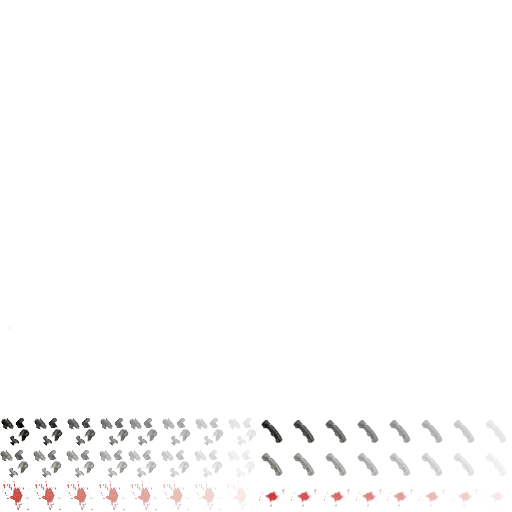
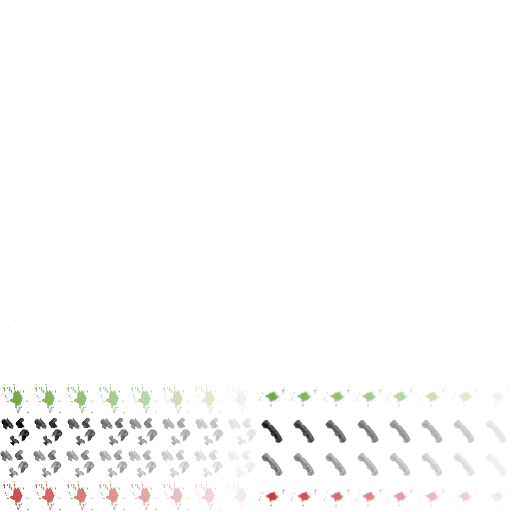
dev

Changed region(s): [[0.0, 0.75, 0.4375, 0.8125], [0.5, 0.75, 0.875, 0.7812], [0.9062, 0.75, 0.9375, 0.7812]]

diff --git a/src/babylon/monsters/codebook/monsterCodebook.ts b/src/babylon/monsters/codebook/monsterCodebook.ts
@@ -19,6 +19,11 @@ export const MonsterCodebook = {
             MonsterBonesAnims.initSkeleton(model)
         }
 
+        // TemplateId 3 is a zombie type
+        if (model.type.templateId === 3) {
+            MonsterBonesAnims.initZombie(model)
+        }
+
         // TemplateId 4 is a cat type
         if (model.type.templateId === 4) {
             MonsterBonesAnims.initCat(model)
@@ -58,12 +63,11 @@ export class MonsterType {
     bodySoundType: string
     parrySoundType: string | null
     monsterSoundType: string = ''
-    splatType: SplatType
 
     aaType: string = MonsterAATypes.MELEE
 
     constructor(id: number, group: MonsterGroup, templateId: number, name: string, boxSize: number, boxHeight: number, walkAnimSpeed: number, weapon: MonsterEquipData | null, helmet: MonsterEquipData | null, armor: MonsterEquipData | null,
-                weaponSoundType: string, bodySoundType: string, parrySoundType: string | null, monsterSoundType: string, splatType: SplatType, aaType: string | null) {
+                weaponSoundType: string, bodySoundType: string, parrySoundType: string | null, monsterSoundType: string, aaType: string | null) {
         this.id = id
         this.group = group
         this.templateId = templateId
@@ -78,7 +82,6 @@ export class MonsterType {
         this.bodySoundType = bodySoundType || BodySoundTypes.HARD
         this.parrySoundType = parrySoundType
         this.monsterSoundType = monsterSoundType
-        this.splatType = splatType
         if (aaType) {
             this.aaType = aaType
         }
@@ -131,6 +134,7 @@ export const MonsterGroups = {
     SKELETON_RANGED: new MonsterGroup(2, 'Skeleton_Ranged'),
     WITHER_MELEE: new MonsterGroup(20, 'Wither_Melee'),
     WITHER_RANGED: new MonsterGroup(21, 'Wither_Ranged'),
+    ZOMBIE: new MonsterGroup(30, 'Zombie'),
     CAT: new MonsterGroup(1000, 'Cat'),
 
     getAsArray(): MonsterGroup[] {
@@ -161,49 +165,49 @@ export const MonsterAATypes = {
 export const MonsterTypes = {
 
     // SKELETON MELEE
-
     SKELETON: new MonsterType( 1, MonsterGroups.SKELETON_MELEE, 1,'Skeleton', 0.6, 1.8, 3.2,null,null,  null,
-        WeaponSoundTypes.BONE, BodySoundTypes.HARD, null, MonsterSoundTypes.SKELETON, FightSplatTypes.BONE, null),
+        WeaponSoundTypes.BONE, BodySoundTypes.HARD, null, MonsterSoundTypes.SKELETON,null),
 
     SKELETON_FIGHTER: new MonsterType( 2, MonsterGroups.SKELETON_MELEE, 1, 'Skeleton Fighter', 0.6, 1.8,  3.2,
         new MonsterEquipData([EquipSlotModelsCb.LONGSWORD.modelId], 0.8, null, null,0),null, null,
-        WeaponSoundTypes.SWORD, BodySoundTypes.HARD, WeaponSoundTypes.SWORD, MonsterSoundTypes.SKELETON, FightSplatTypes.BONE, null),
+        WeaponSoundTypes.SWORD, BodySoundTypes.HARD, WeaponSoundTypes.SWORD, MonsterSoundTypes.SKELETON, null),
 
     SKELETON_WARRIOR: new MonsterType( 3, MonsterGroups.SKELETON_MELEE, 1, 'Skeleton Warrior', 0.6, 1.8,  3.2,
         new MonsterEquipData([EquipSlotModelsCb.LONGSWORD.modelId], 0.8, null, null, 0),
         new MonsterEquipData([EquipSlotModelsCb.HELM.modelId], 1.07 , VectorY90, null, 8),
         new MonsterEquipData([EquipSlotModelsCb.ARMOR_PLATE.modelId], new Vector3(0.82, 0.7, 0.78),  VectorY90, null, 8),
-        WeaponSoundTypes.SWORD, BodySoundTypes.HARD, WeaponSoundTypes.SWORD, MonsterSoundTypes.SKELETON, FightSplatTypes.BONE, null),
+        WeaponSoundTypes.SWORD, BodySoundTypes.HARD, WeaponSoundTypes.SWORD, MonsterSoundTypes.SKELETON, null),
 
     // SKELETON RANGED
-
     SKELETON_ARCHER: new MonsterType( 20, MonsterGroups.SKELETON_RANGED, 1, 'Skeleton Archer', 0.6, 1.8,  3.2,
         new MonsterEquipData([EquipSlotModelsCb.HUNTERBOW.modelId], 0.8, new Vector3(Math.PI, 0, Math.PI), null, 0), null, null,
-        WeaponSoundTypes.SWORD, BodySoundTypes.HARD, WeaponSoundTypes.SWORD, MonsterSoundTypes.SKELETON, FightSplatTypes.BONE, MonsterAATypes.RANGED_ARROW),
+        WeaponSoundTypes.SWORD, BodySoundTypes.HARD, WeaponSoundTypes.SWORD, MonsterSoundTypes.SKELETON, MonsterAATypes.RANGED_ARROW),
+
+    // ZOMBIE
+    ZOMBIE : new MonsterType( 50, MonsterGroups.ZOMBIE, 3,'Rotten Zombie', 0.6, 1, 3, null,null,  null,
+        WeaponSoundTypes.BONE, BodySoundTypes.HARD, null, MonsterSoundTypes.SKELETON, null),
 
     // WITHER MELEE
-
     WITHER: new MonsterType( 200, MonsterGroups.WITHER_MELEE, 2,'Wither', 0.6, 1.8, 3.2, null,null,  null,
-        WeaponSoundTypes.BONE, BodySoundTypes.HARD, null, MonsterSoundTypes.SKELETON, FightSplatTypes.DARK_BONE, null),
+        WeaponSoundTypes.BONE, BodySoundTypes.HARD, null, MonsterSoundTypes.SKELETON, null),
 
     WITHER_CHAMPION: new MonsterType( 201, MonsterGroups.WITHER_MELEE, 2, 'Wither Champion', 0.6, 1.8,3.2,
         new MonsterEquipData([EquipSlotModelsCb.LONGSWORD.modelId], 0.8, null, null, 0),null, null,
-        WeaponSoundTypes.SWORD, BodySoundTypes.HARD, WeaponSoundTypes.SWORD, MonsterSoundTypes.SKELETON, FightSplatTypes.DARK_BONE, null),
+        WeaponSoundTypes.SWORD, BodySoundTypes.HARD, WeaponSoundTypes.SWORD, MonsterSoundTypes.SKELETON, null),
 
     WITHER_KNIGHT: new MonsterType( 202, MonsterGroups.WITHER_MELEE, 2, 'Wither Knight', 0.6, 1.8,  3.2,
         new MonsterEquipData([EquipSlotModelsCb.LONGSWORD.modelId], 0.9, null, null, 2),
         new MonsterEquipData([EquipSlotModelsCb.HELM.modelId], 1.07, VectorY90, null,6),
         new MonsterEquipData([EquipSlotModelsCb.ARMOR_PLATE.modelId], new Vector3(0.82, 0.7, 0.78), VectorY90, null, 6),
-        WeaponSoundTypes.SWORD, BodySoundTypes.HARD, WeaponSoundTypes.SWORD, MonsterSoundTypes.SKELETON, FightSplatTypes.DARK_BONE, null),
+        WeaponSoundTypes.SWORD, BodySoundTypes.HARD, WeaponSoundTypes.SWORD, MonsterSoundTypes.SKELETON, null),
 
     // WITHER RANGED
 
 
     // CAT TYPES
-
     HOUSE_CAT : new MonsterType( 1001, MonsterGroups.CAT,  4,'House Cat', 0.6, 1, 6, null,null,  null,
-        WeaponSoundTypes.BONE, BodySoundTypes.SOFT, null, MonsterSoundTypes.CAT, FightSplatTypes.BLOOD, null),
+        WeaponSoundTypes.BONE, BodySoundTypes.SOFT, null, MonsterSoundTypes.CAT, null),
 
     WILD_CAT : new MonsterType( 1002, MonsterGroups.CAT, 4,'Wild Cat', 0.6, 1, 6, null,null,  null,
-        WeaponSoundTypes.BONE, BodySoundTypes.SOFT, null, MonsterSoundTypes.CAT, FightSplatTypes.BLOOD, null),
+        WeaponSoundTypes.BONE, BodySoundTypes.SOFT, null, MonsterSoundTypes.CAT,  null),
 }

diff --git a/src/babylon/monsters/codebook/monsterBonesAnims.ts b/src/babylon/monsters/codebook/monsterBonesAnims.ts
@@ -32,6 +32,25 @@ export const MonsterBonesAnims = {
         MonsterCodebook.initEquip(model)
     },
 
+    initZombie(model: MonsterModel) {
+        const animations = [
+            { name: "Idle", startFrame: 0, endFrame: 75 },
+            { name: "Walk", startFrame: 76, endFrame: 225 },
+            { name: "Attack", startFrame: 500, endFrame: 575 },
+            { name: "AttackSlash", startFrame: 1000, endFrame: 1075 },
+            { name: "Dead", startFrame: 1300, endFrame: 1360 },
+        ]
+
+        const groups = animations.map(({ name, startFrame, endFrame }) => {
+            return new MeshAnimation(model.animation.clone(name + Math.random(), undefined, true), startFrame, endFrame)
+        });
+
+        model.idleAnim = groups[0]
+        model.walkAnim = groups[1]
+        model.attackAnims = [groups[2], groups[3]]
+        model.deadAnim = groups[4]
+    },
+
     initCat(model: MonsterModel) {
         const animations = [
             { name: "Idle", startFrame: 0, endFrame: 75 },

diff --git a/src/babylon/item/codebook/armorsModelsCb.ts b/src/babylon/item/codebook/armorsModelsCb.ts
@@ -58,5 +58,5 @@ export const ArmorModelsCb = {
 
     PAULDRON_MALE: new EquipCbItem(EquipSlotModelsCb.PAULDRONS_PLATE.modelId, "male-pauldron-plate", new Vector3(0.06, -0.15, 0), new Vector3(0.5, 0.5, 0.5), null, matMetalSize),
 
-    LEG_MALE: new EquipCbItem(EquipSlotModelsCb.LEGS_PLATE.modelId, "male-leg-plate", new Vector3(-0.01, -0.1, 0.015), new Vector3(0.25, 0.26, 0.20),null, matMetalSize),
+    LEG_MALE: new EquipCbItem(EquipSlotModelsCb.LEGS_PLATE.modelId, "male-leg-plate", new Vector3(-0.005, -0.1, 0.015), new Vector3(0.23, 0.24, 0.20),null, matMetalSize),
 }

diff --git a/src/babylon/character/characterModel.ts b/src/babylon/character/characterModel.ts
@@ -88,7 +88,7 @@ export class CharacterModel implements EquipBearer {
             this.parent.nameDisplayTime = Date.now() + 3000
 
             // Apply material
-            const material = Materials.getPBRMaterial(Renderer.scene, "steveMaterial", "/models/steve/steve2.png", false, false,  {
+            const material = Materials.getPBRMaterial(Renderer.scene, "steveMaterial", "/models/steve/human_male2.png", false, false,  {
                 metallic: 0,
                 roughness: 1,
                 directIntensity: 1,

diff --git a/src/babylon/monsters/codebook/monsterTemplates.ts b/src/babylon/monsters/codebook/monsterTemplates.ts
@@ -96,5 +96,5 @@ export const MonsterTemplates = {
     CAT : new MonsterTemplate(4, "cat.gltf", "cat.png", 0.85),
     SKELETON: new MonsterTemplate(1,  "skeleton.gltf", "skeleton.png",  0.35),
     WITHER: new MonsterTemplate(2,  "skeleton.gltf", "wither.png",  0.35),
-    // ZOMBIE: new MonsterTemplate(3, "zombie.gltf", "zombie.png", 4, new Vector3(0.25, 0.25, 0.25))
+    ZOMBIE: new MonsterTemplate(3,  "human_male.gltf", "zombie.png",  0.25),
 }

diff --git a/src/gui/actionButtonsManager.ts b/src/gui/actionButtonsManager.ts
@@ -330,9 +330,10 @@ export const ActionButtonsManager = {
             return
         }
 
+        /**
         if (!InventoryManager.hasStoredWeaponSetupEquipped()) {
             InventoryManager.equipStoredWeaponSetup('primary')
-        }
+        }*/
 
         TargetingManager.checkAutoAttackOnSelectedTarget(true)
     },

diff --git a/src/gui/targettingManager.ts b/src/gui/targettingManager.ts
@@ -233,7 +233,6 @@ export interface Targetable {
     getModelHeight(): number
     getNameTextNodeScreenPosition(): { x: number, y: number } | null
     getObjectType(): string
-    getSplatType(): SplatType
     getRelationToMyPlayer(): 'ALLY' | 'ENEMY' | 'NEUTRAL'
     getDistanceFromMyPlayer(): number
 }

diff --git a/src/babylon/monsters/monster.ts b/src/babylon/monsters/monster.ts
@@ -245,10 +245,6 @@ export class Monster implements Attackable {
         return this.mobType.parrySoundType
     }
 
-    getSplatType(): SplatType {
-        return this.mobType.splatType
-    }
-
     isWeaponRanged(): boolean {
         return this.mobType.aaType === MonsterAATypes.RANGED_ARROW
     }

diff --git a/src/babylon/character/character.ts b/src/babylon/character/character.ts
@@ -445,10 +445,6 @@ class Character implements Attackable, EffectTarget {
         return this.parrySoundType
     }
 
-    getSplatType(): SplatType {
-        return FightSplatTypes.BLOOD
-    }
-
     getWeapon(): Item | null {
         return this.equipSet.get(EquipItemSlots.R_HAND) || null
     }

diff --git a/src/babylon/world/fightSplatsRenderer.ts b/src/babylon/world/fightSplatsRenderer.ts
@@ -137,7 +137,7 @@ class Splat {
 
 export const FightSplatTypes = {
     BLOOD: new SplatType(1, 0),
-    GREEN_BLOOD: new SplatType(2, 1),
+    GREEN_BLOOD: new SplatType(2, 3),
     FLESH: new SplatType(3, 2),
     ICHOR: new SplatType(4, 3),
     BONE: new SplatType(5, 1),
